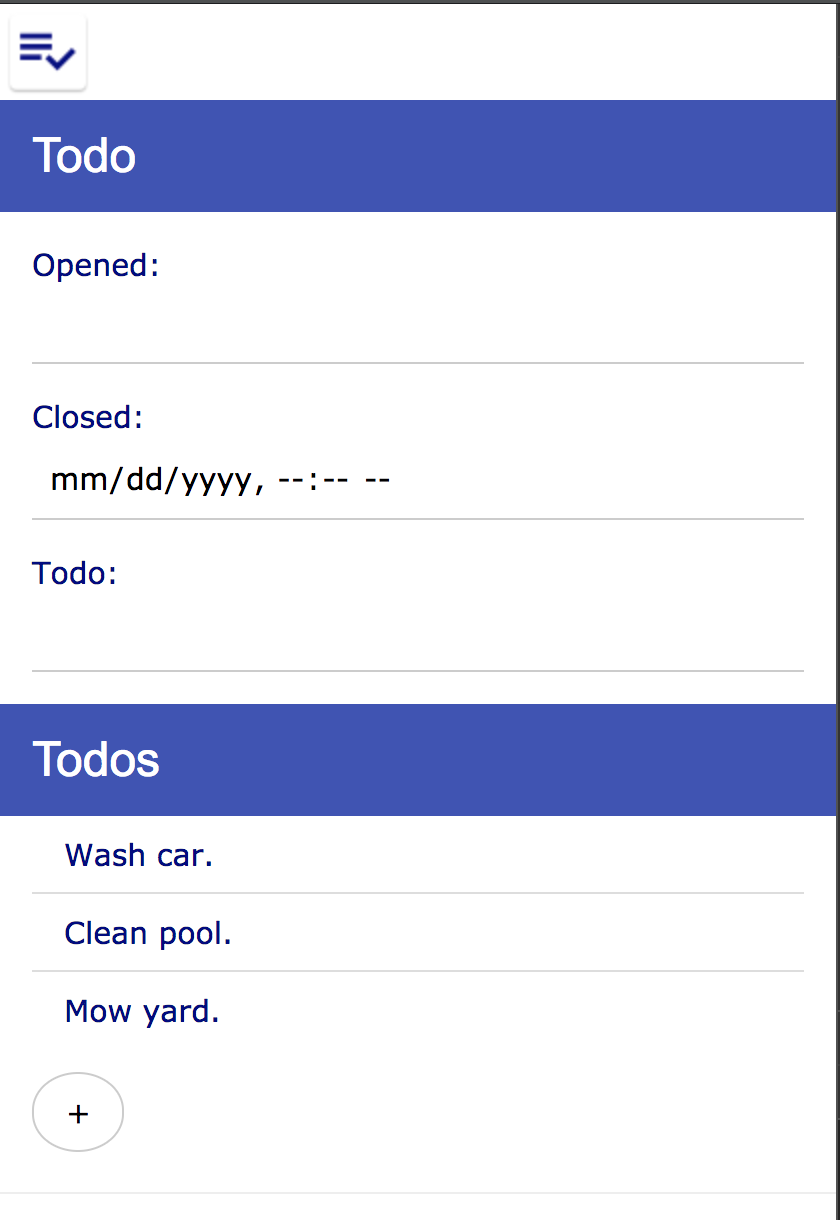
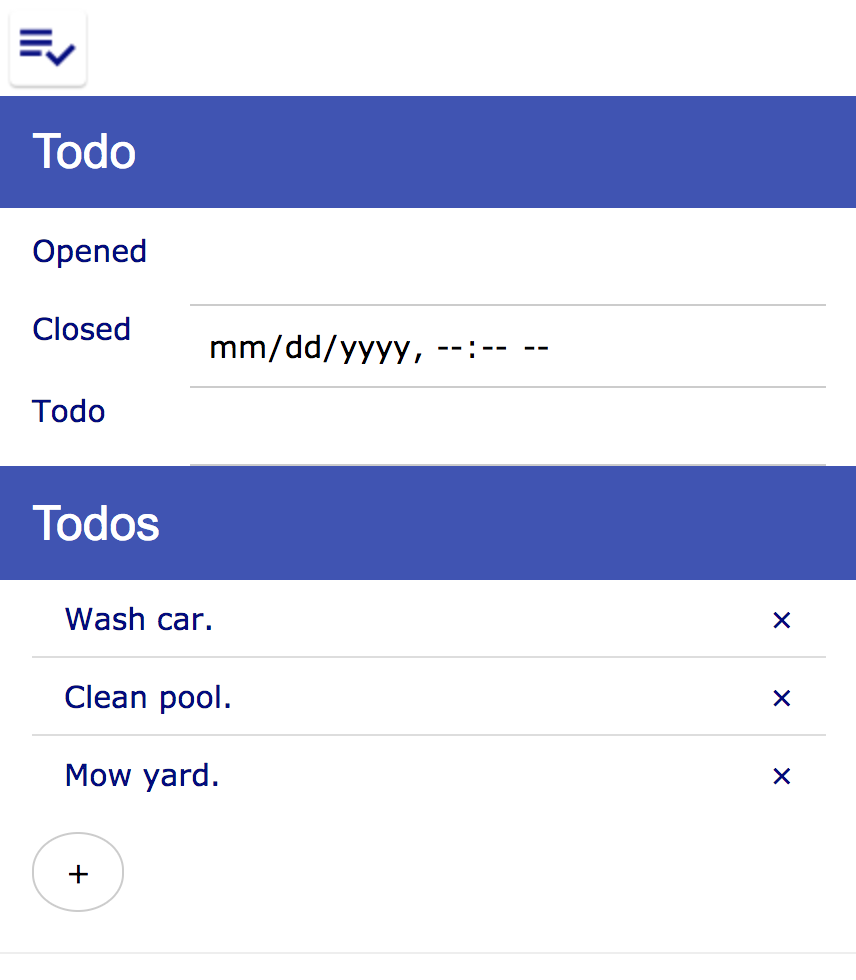
edited index.html and mobile.ui.png

diff --git a/pwa/index.html b/pwa/index.html
@@ -23,19 +23,19 @@
         <div class="w3-container w3-indigo">
             <h3>Todo</h3>
         </div>
-        <div class="w3-container">
-            <p>
-                <label>Opened:</label>
-                <input id="opened" class="w3-input w3-hover-light-gray" type="text" readonly/>
-            </p>
-            <p>
-                <label>Closed:</label>
-                <input id="closed" class="w3-input w3-input w3-hover-light-gray" type="datetime-local"/>
-            </p>
-            <p>
-                <label>Todo:</label>
-                <input id="todo" class="w3-input w3-input w3-hover-light-gray" type="text"/>
-            </p>
+        <div class="w3-container" style="padding-top: 10px">
+            <div class="w3-row">
+                <div class="w3-col" style="width:20%"><label>Opened</label></div>
+                <div class="w3-col" style="width:80%"><input id="opened" class="w3-input w3-hover-light-gray" type="text" readonly/></div>
+            </div>
+            <div class="w3-row">
+                <div class="w3-col" style="width:20%"><label>Closed</label></div>
+                <div class="w3-col" style="width:80%"><input id="closed" class="w3-input w3-input w3-hover-light-gray" type="datetime-local"/></div>
+            </div>
+            <div class="w3-row">
+                <div class="w3-col" style="width:20%"><label>Todo</label></div>
+                <div class="w3-col" style="width:80%"><input id="todo" class="w3-input w3-input w3-hover-light-gray" type="text"/></div>
+            </div>
         </div>
         <div class="w3-container w3-indigo">
             <h3>Todos</h3>
@@ -53,7 +53,7 @@
                 </li>
             </ul>
         </div>
-        <div class="w3-container" style="padding-top: 12px">
+        <div class="w3-container" style="padding-top: 10px">
             <div class="w3-bar">
                 <button id="new-todo" class="w3-button w3-circle w3-white w3-border w3-hover-light-gray">+</button>
             </div>
